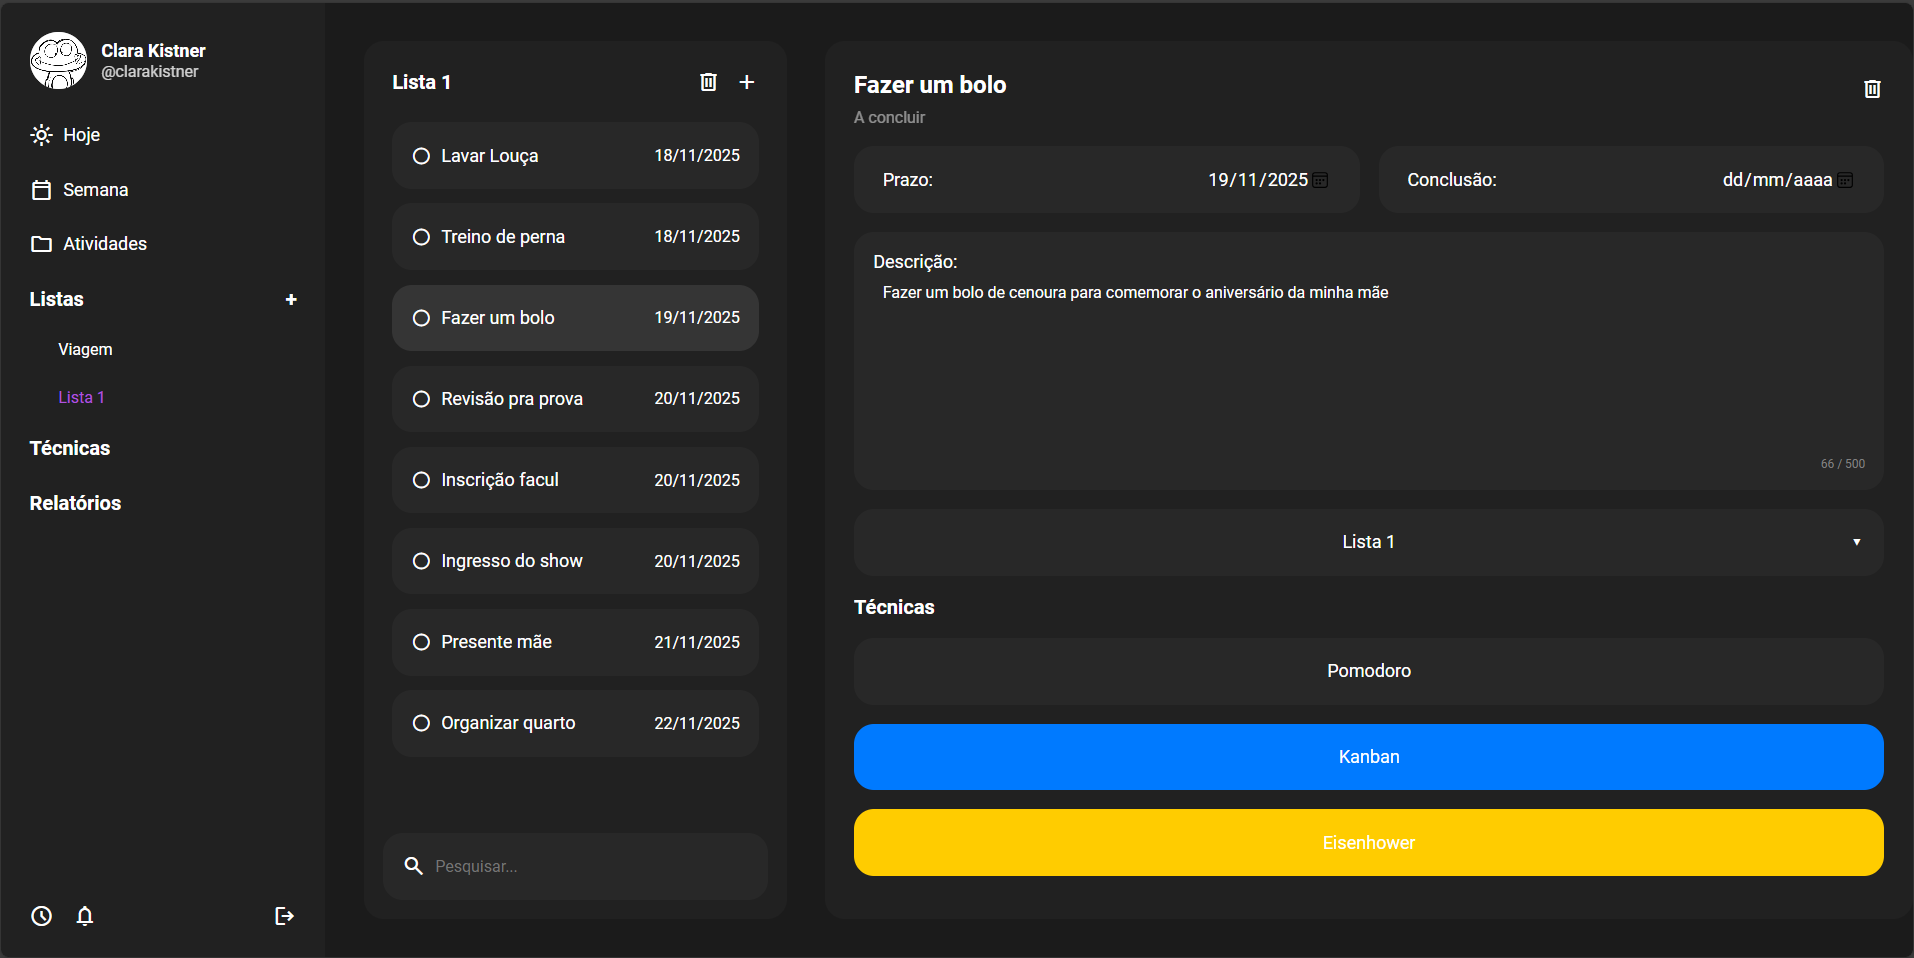
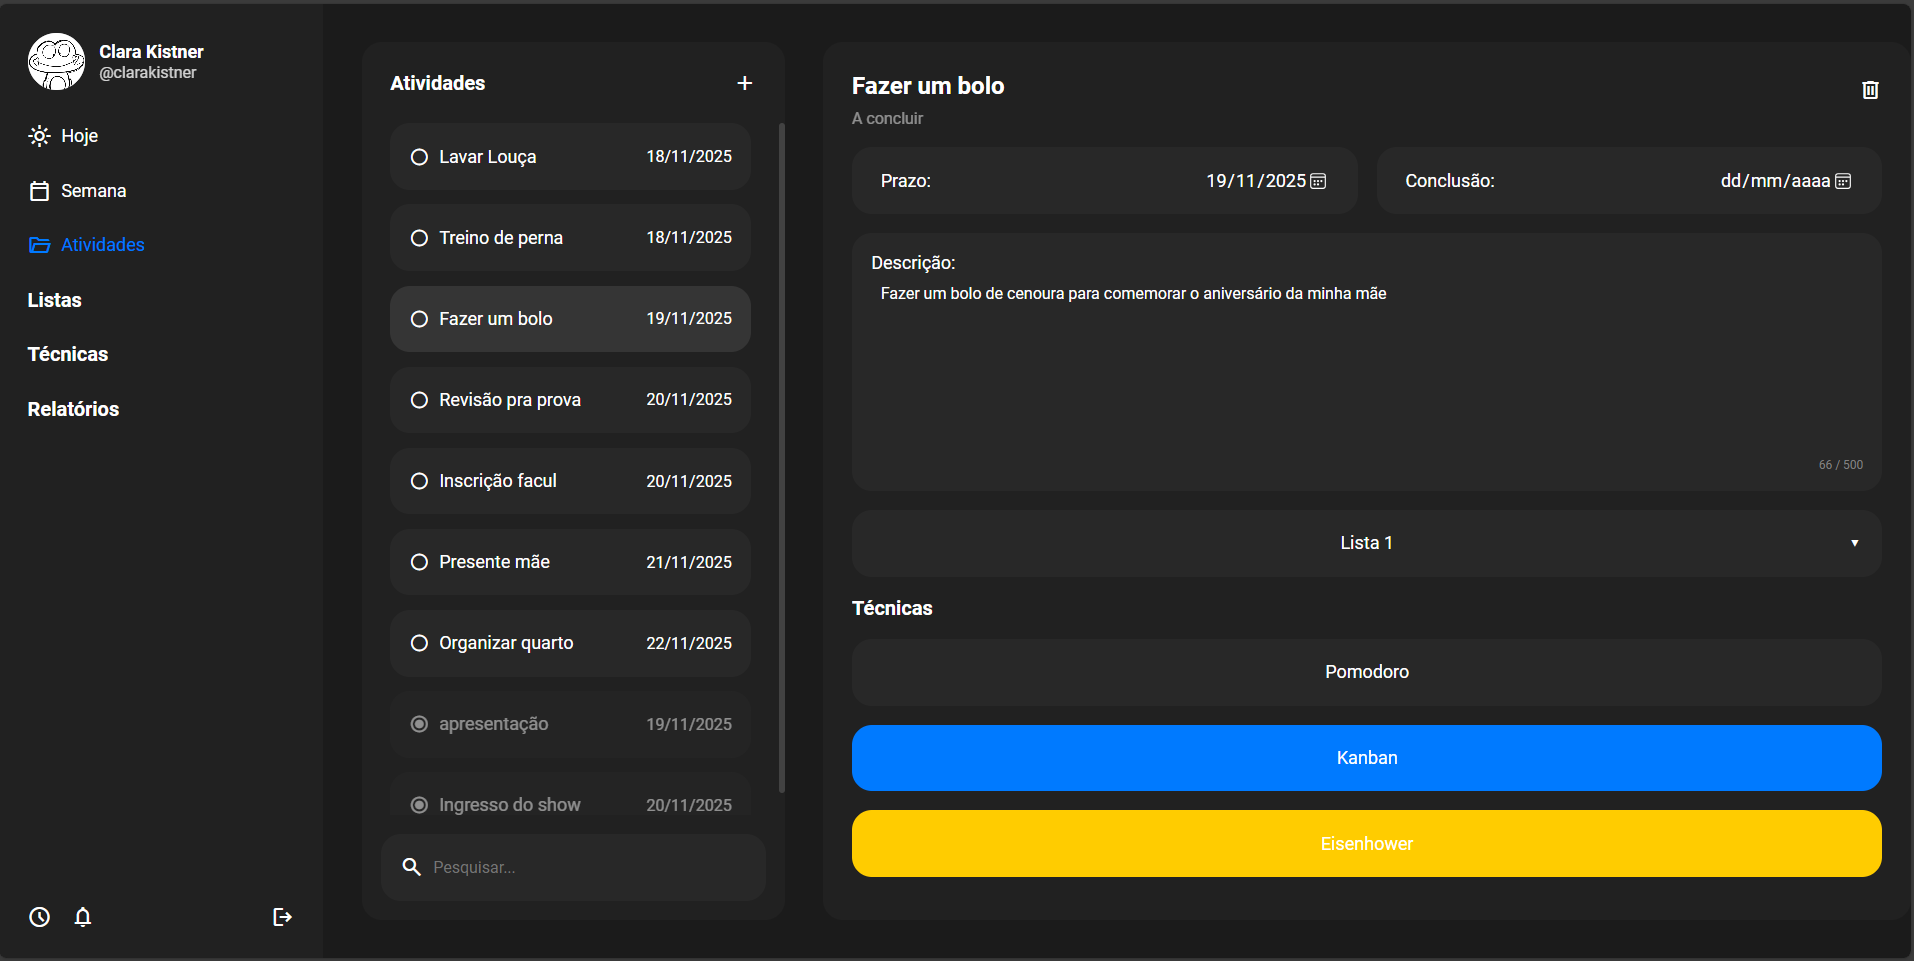
ícone de calendário atualizado

diff --git a/back/src/controllers/lembretesController.js b/back/src/controllers/lembretesController.js
@@ -373,9 +373,9 @@ export async function detalhesLembrete(req, res) {
 
 
 cron.schedule(
-  "0 11 * * *",
+  "0 19 * * *",
   async () => {
-    console.log("Gerando lembretes de atividades próximas (12h)...");
+    console.log("Gerando lembretes de atividades próximas (19h)...");
     await gerarLembretesAtividadesProximas();
   },
   { timezone: "America/Sao_Paulo" }

diff --git a/front/src/containers/AtividadeSelecionada/styles.js b/front/src/containers/AtividadeSelecionada/styles.js
@@ -65,7 +65,14 @@ export const Input = styled.input`
   background-color: transparent;
   width: 100%;
   text-align: right;
+  color: var(--texto);
+
+  &::-webkit-calendar-picker-indicator {
+      filter: invert(1);
+      cursor: pointer;
+  }
 `;
+
 
 export const Desc = styled.div`
   display: flex;

diff --git a/front/src/containers/ModalCriarAtividade/styles.js b/front/src/containers/ModalCriarAtividade/styles.js
@@ -46,7 +46,12 @@ export const ModalInput = styled.input`
         color: #999;
         font-size: 18px;
     }
+
+    &::-webkit-calendar-picker-indicator {
+        filter: invert(1);    
+    }
 `;
+
 
 export const ModalButton = styled.div`
     display: flex;
